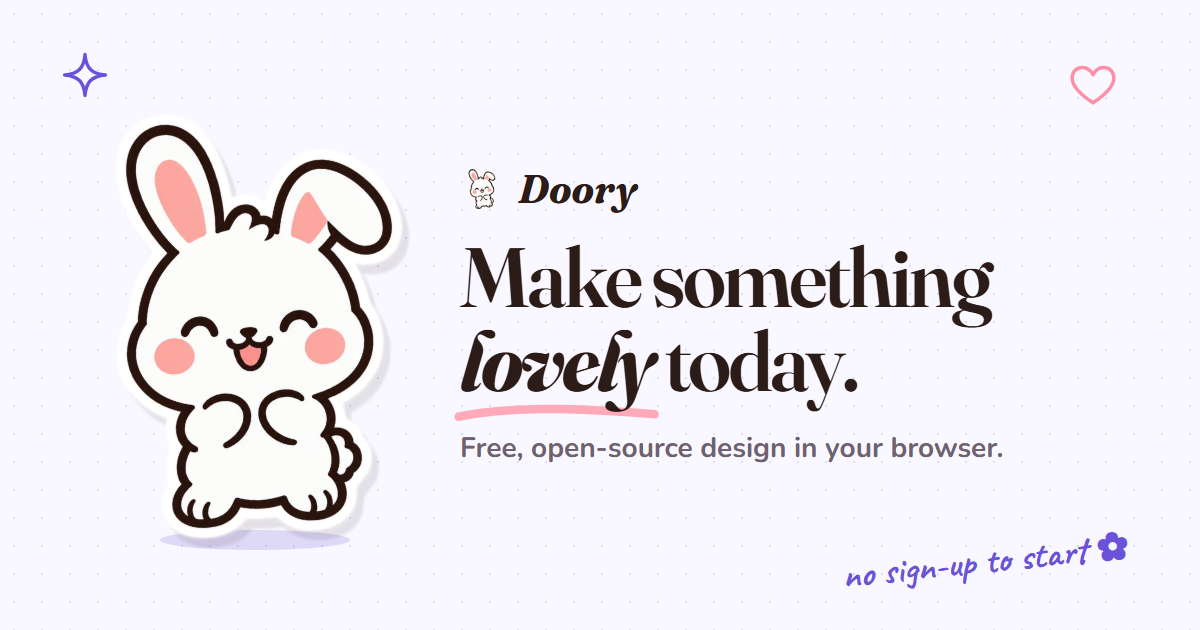
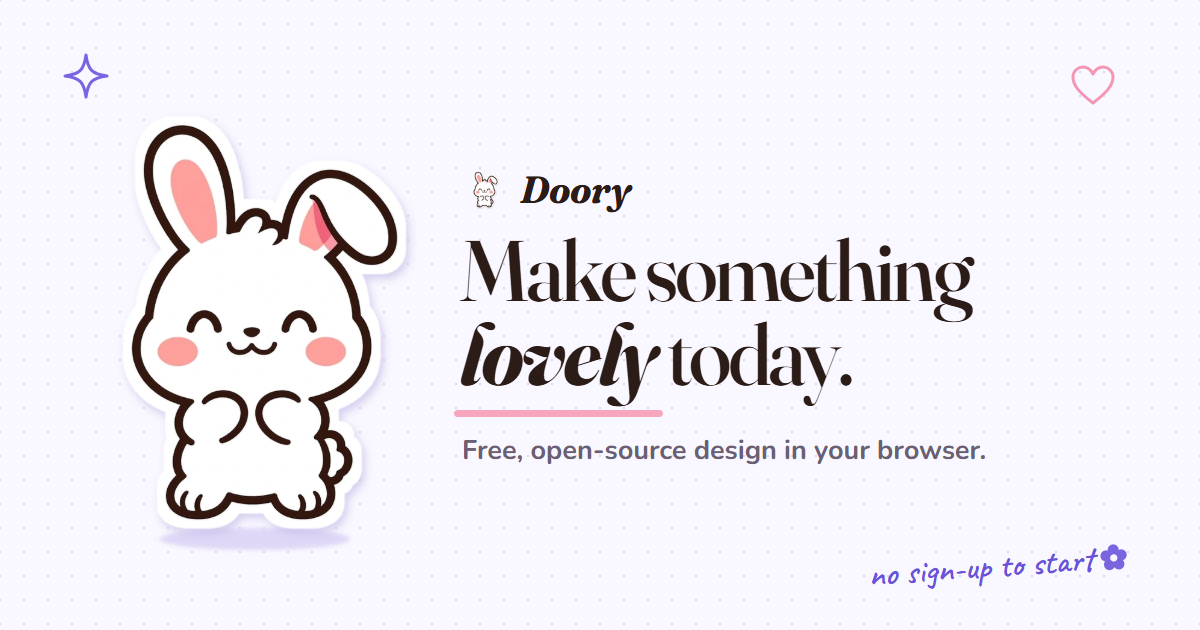
New bunny mascot (#81)
* Replace the bunny mascot with new artwork

The sticker (landing page, auth screens, footer) and the logo mark at their
existing sizes, so no layout changes. The new bunny was cut out of its white
background and given a fresh white sticker border and a soft lilac shadow.

* Rebuild the icons, share image and README banner around the new bunny

App icons and favicon: the bunny's head on the same lilac tile, with the
tile cut just under the cheeks. Share image: the same layout as before,
set in Fraunces, Nunito and Caveat. README banner: only the small bunny
beside the wordmark changes.

* Record where the new bunny mascot comes from

Generated with ChatGPT by the project maintainer, replacing the earlier
bunny whose author and licence were never recorded.

---------

diff --git a/THIRD_PARTY.md b/THIRD_PARTY.md
@@ -182,8 +182,8 @@ Test only: `yjs`, `y-protocols` and `lib0` also form the reference Yjs client of
 ## Assets in this repository
 
 Everything below was made for Doory, except the five starter-template photos (public domain, CC0, listed in
-"Starter template photos") and the bunny mascot, whose origin is recorded in its row. There is no third-party music
-or font file in the repository.
+"Starter template photos"). The bunny mascot's origin is recorded in its row. There is no third-party music or font
+file in the repository.
 
 | Asset | Source | Licence |
 |-------|--------|---------|
@@ -191,8 +191,8 @@ or font file in the repository.
 | Built-in graphics: the SVG files written by `backend/data/generate_graphics.py` (404 backgrounds and patterns, frames and badges, dividers and borders, speech bubbles, social-media glyphs, sale badges, charts and doodles; the lettering is drawn in `backend/data/graphics/lettering.py`) | Original work generated from code in this repository | CC0-1.0 |
 | Starter templates: `backend/data/templates/*.json` and `thumbs/*.webp` (ten templates), generated by `frontend/scripts/templates/` from original compositions, shapes and sample copy; no third-party artwork or logos. Five of them show one of the CC0 photos below. The thumbnails are pictures of the compositions rendered in the fonts listed below | Original work generated from code in this repository | Attribution Assurance License, like the code |
 | Audio library: the 24 music loops and 88 sound effects under `backend/data/audio/` (Opus in Ogg, about 7 MB) and `backend/data/audio_library.json`, written by `backend/tools/audio/` (a deterministic synthesiser: oscillators, filters, a feedback-delay reverb, seeded note generators; no samples, recordings or third-party music). Encoding uses the `ffmpeg` command-line tool with libopus (BSD-3-Clause) at generation time only; nothing of it ships | Original work generated from code in this repository | CC0-1.0 |
-| The bunny mascot: `frontend/src/assets/bunny-sticker.webp` and `bunny-mark.webp` (the logo mark, the landing page, the auth screens and the footer) | A PNG supplied by the project maintainer on 2026-10-10; the sticker outline, shadow and sizes were made from it with Pillow. **Its author and licence are not recorded yet: confirm both before a public release** | To be confirmed |
-| Favicon, app icons and share image: `frontend/public/icons/*.png` (the bunny's head on a lilac tile) and `frontend/public/og-image.png` (the bunny with "Make something lovely today." set in Fraunces and Nunito, OFL-1.1), made from the bunny above | Original work around the bunny artwork | Attribution Assurance License, like the code, for everything but the bunny itself |
+| The bunny mascot: `frontend/src/assets/bunny-sticker.webp` and `bunny-mark.webp` (the logo mark, the landing page, the auth screens and the footer) | Generated with ChatGPT (OpenAI) by the project maintainer on 2026-10-18, replacing the earlier bunny of 2026-10-10. The white background was removed and the sticker border, shadow and sizes made from it with Pillow | Owned by the project maintainer (OpenAI's terms assign generated images to the user); distributed under the Attribution Assurance License, like the code |
+| Favicon, app icons and share image: `frontend/public/icons/*.png` (the bunny's head on a lilac tile) and `frontend/public/og-image.png` (the bunny with "Make something lovely today." set in Fraunces, Nunito and Caveat, OFL-1.1), made from the bunny above | Original work around the bunny artwork | Attribution Assurance License, like the code |
 | `frontend/public/manifest.webmanifest`, `robots.txt` | Original work | Attribution Assurance License, like the code |
 | README images: `.github/readme/*` (the banner, a screen recording of the editor, screenshots of Doory and a collage of its starter templates) | Original work; the templates in them show the CC0 photos listed under "Starter template photos" | Attribution Assurance License, like the code, for everything but those photos |
 | Test fonts `frontend/e2e/editor/fixtures/fonts/*.ttf, *.woff2` (solid blocks and diamonds instead of letters), generated by `make_fonts.py` next to them with fontTools; they contain no third-party outlines | Original work generated from code in this repository | CC0-1.0 |
